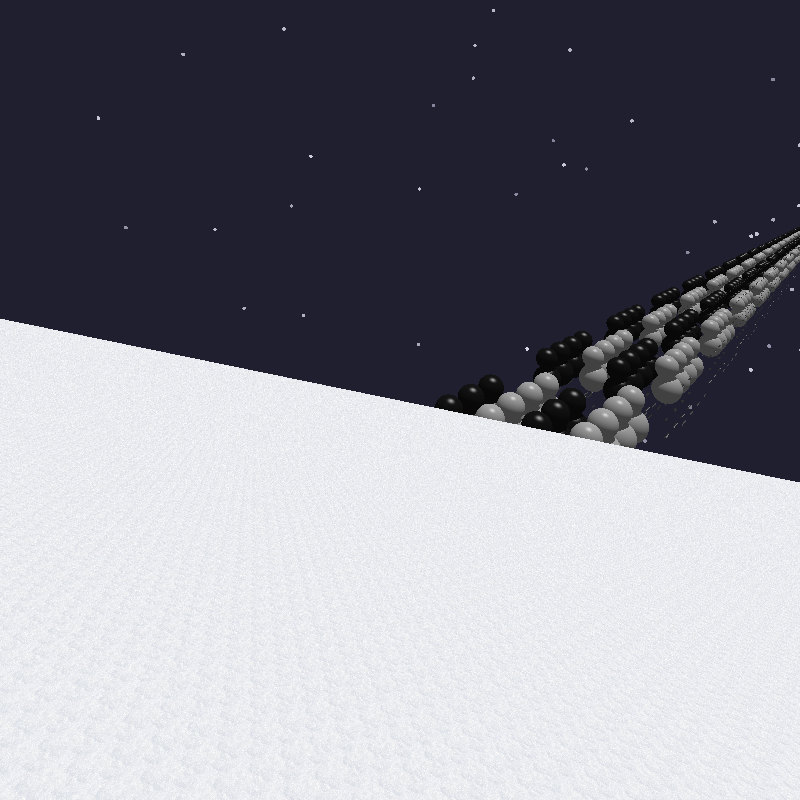
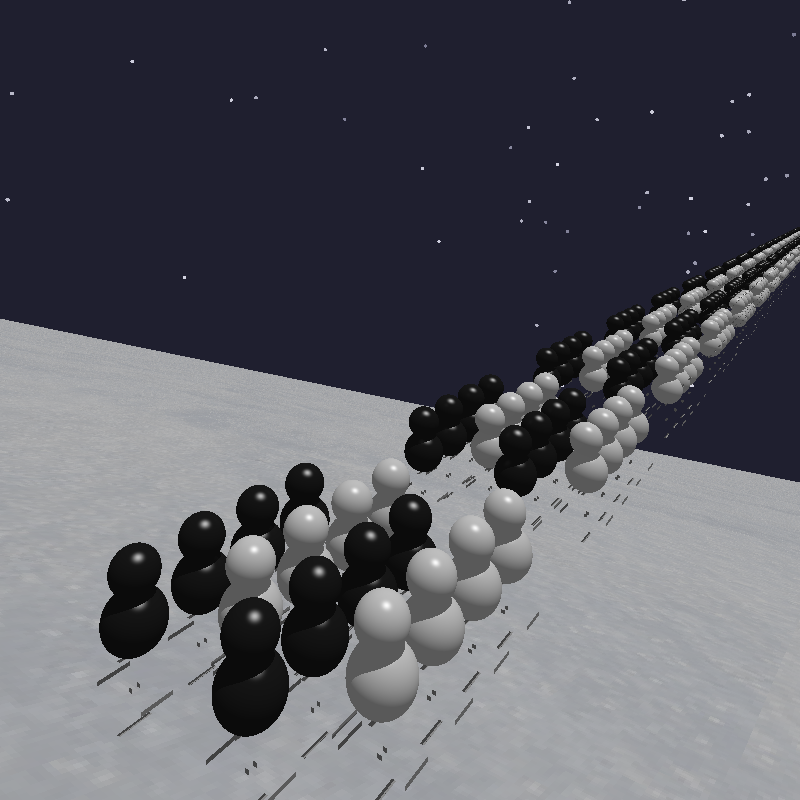
a05

diff --git a/src/cgg/A05.java b/src/cgg/A05.java
@@ -20,9 +20,6 @@ import tools.StarrySky;
 import tools.Vec2;
 import tools.Vec3;
 
-import static tools.Functions.multiplyPoint;
-
-
 
 public class A05 {
     
@@ -39,29 +36,6 @@ public class A05 {
     
         List<Shape> scene = new ArrayList<>();
 
-
-        // 1. 加载images文件夹下的snow图片
-        ImageTexture snowTexture = null;
-        Ebene slopePlane = null;
-
-        try {
-            snowTexture = new ImageTexture("images/snow.jpg");
-            System.out.println("雪纹理加载成功！");
-            // 直接创建带纹理的平面
-            slopePlane = new Ebene(snowTexture);
-            slopePlane.setTextureScale(0.1); // 纹理密度（可调整为0.2/0.3）
-        } catch (Exception e) {
-            System.err.println("Texture loading failed! Please check if the path is images/snow.jpg");
-            System.err.println("Cause of the error:" + e.getMessage());
-            // 加载失败时降级为白色平面
-            slopePlane = new Ebene(new Color(1,1,1,1)); 
-        }
-
-        // 设置平面变换（20度坡度 + Y=-80平移）
-        Mat44 slopeTrans = Mat44.rotateX(Math.toRadians(20))
-                                .multiply(Mat44.translate(0,-80, 0));
-        slopePlane.setTransform(slopeTrans);
-        scene.add(slopePlane);
 
 
 
@@ -90,7 +64,6 @@ public class A05 {
             createSnowmanGrid(4, 4,blackSnowmanGroup, whiteSnowmanGroup);
             snowmanMatrixGroup.addChild(blackSnowmanGroup);
             snowmanMatrixGroup.addChild(whiteSnowmanGroup);
-
           
 
             // 平移当前矩阵：沿Z轴前后排列（i=0最前，i越大越往后）
@@ -101,6 +74,27 @@ public class A05 {
             scene.add(snowmanMatrixGroup);  // 加入场景
         }
       
+
+         // 1. 加载images文件夹下的snow图片
+         ImageTexture snowTexture = null;
+         Ebene slopePlane = null;
+         try {
+             snowTexture = new ImageTexture("images/snow.jpg");
+             System.out.println("photo加载成功!");
+             // 直接创建带纹理的平面
+             slopePlane = new Ebene(snowTexture);
+             slopePlane.setTextureScale(0.001); // 纹理密度
+         } catch (Exception e) {
+             System.err.println("Texture loading failed! Please check if the path is images/snow.jpg");
+             System.err.println("Cause of the error:" + e.getMessage());
+             // 加载失败时降级为白色平面
+             slopePlane = new Ebene(new Color(1,1,1,1)); 
+         }
+         // 设置平面变换（20度坡度 + Y=-80平移）
+         Mat44 slopeTrans = Mat44.rotateX(Math.toRadians(20))
+                                 .multiply(Mat44.translate(0,-80, 0));
+         slopePlane.setTransform(slopeTrans);
+         scene.add(slopePlane);
         
 
     
@@ -117,8 +111,8 @@ public class A05 {
         lichtquellen.add(Lichtquelle.createRichtungslicht(lichtRichtung, lichtIntensitaet));
         
         // 5.2 添加点光源（上方）
-        Vec3 punktLichtPos = new Vec3(-5, 15, -25);  // 点光源位置（球体上方）
-        Color punktLichtIntens = new Color(0.4, 0.4, 0.4, 1); // 点光源强度
+        Vec3 punktLichtPos = new Vec3(-5, 15, -20);  // 点光源位置（球体上方）
+        Color punktLichtIntens = new Color(0.6, 0.6, 0.6, 1); // 点光源强度
         lichtquellen.add(Lichtquelle.createPunktlicht(punktLichtPos, punktLichtIntens));
 
         // 6. 光线追踪（传入光源列表）
@@ -138,21 +132,23 @@ public class A05 {
                 System.out.println("doing: "+ (y * 100 / 800 ) + "% ");
             }
             for (int x = 0; x < 800; x++){
-                Color pixelColor = rayTracer.getColor(x, y);
-
+                
                 // 关键：检测是否击中slopePlane，若是则采样纹理
                 Ray ray = camera.generateRay(new Vec2(x, y));
-                Hit hit = slopePlane.intersect(ray); // 检测是否击中地面
-                if (hit != null) {
-                    // 调用getColorAt采样纹理（核心！）
-                    pixelColor = slopePlane.getColorAt(hit.position());
-                } 
-                // 如果是背景色，替换为星空颜色
-                else if (isBackgroundColor(pixelColor, backgroundColor)) {
-                    // 获取当前像素对应的光线方向
-                    Vec3 rayDir = ray.direction();
-                    // 替换为星空颜色
-                    pixelColor = starrySky.getSkyColor(rayDir);
+
+                Color pixelColor = rayTracer.getColor(x, y);
+
+                // 只有当击中的是背景色时，才尝试采样地面纹理
+                if (isBackgroundColor(pixelColor, backgroundColor)) {
+                    // 检查是否击中地面
+                    Hit hit = slopePlane.intersect(ray);
+                    if (hit != null) {
+                        // 采样地面纹理
+                        pixelColor = slopePlane.getColorAt(hit.position());
+                    } else {
+                        // 既没击中物体也没击中地面，显示星空
+                        pixelColor = starrySky.getSkyColor(ray.direction());
+                    }
                 }
 
                 image.setPixel(x,y, pixelColor);

diff --git a/src/tools/SimpleRayTracer.java b/src/tools/SimpleRayTracer.java
@@ -55,7 +55,7 @@ public class SimpleRayTracer {
         Color localColor = shade(closestHit);
         
         // 获取物体原始颜色的透明度
-        Color rawColor = getShapeColor(closestHit.shape());
+        Color rawColor = getShapeColor(closestHit.shape(), closestHit.position());
         double alpha = rawColor.a(); // 使用你新加的 alpha()
 
         // 如果物体是半透明 (alpha < 1.0)，则继续追踪
@@ -102,7 +102,7 @@ public class SimpleRayTracer {
     /**
      * 工具方法：从Shape中获取颜色
      */
-    private Color getShapeColor(Shape shape) {
+    private Color getShapeColor(Shape shape, Vec3 hitPosition) {
         if (shape == null) {
             return Color.black(); // 空值默认黑色
         }
@@ -110,14 +110,13 @@ public class SimpleRayTracer {
         if (shape instanceof Sphere) {
             return ((Sphere) shape).getColor();
         }
-        // 适配Plane的getColor()方法（若有Plane类）
+        // 适配Plane的getColor()方法
         else if (shape instanceof Ebene) {
-            return ((Ebene) shape).getColor();
+            return ((Ebene) shape).getColorAt(hitPosition);
         }
         // Group默认灰色
         else if (shape instanceof Group) {
             // Group 本身通常没有颜色，Hit 返回的是子物体
-
              return Color.white;
         }
         // 未知形状默认白色
@@ -134,10 +133,10 @@ public class SimpleRayTracer {
     private Color shade(Hit hit) {
         Vec3 p = hit.position();       // 交点坐标
         Vec3 n = hit.normal().normalize();  // 法向量归一
-        Color objColor = getShapeColor(hit.shape());
+        Color objColor = getShapeColor(hit.shape(), p); // 物体颜色
 
         // 环境光
-        float ambientStrength = 0.05f;
+        float ambientStrength = 0.1f;
         Color ambient = objColor.multiply(ambientStrength);
 
         // 漫反射 + 镜面反射
@@ -164,7 +163,7 @@ public class SimpleRayTracer {
 
             // 3. 漫反射（兰伯特定律）
             double dotPktDiffus = Math.max(0, n.dot(l));  // 避免背面受光
-            float diffuseStrength = 0.5f;
+            float diffuseStrength = 0.6f;
             Color diffuse = objColor
                 .multiply(diffuseStrength * dotPktDiffus)
                 .multiplyWithColor(lightIntensity);
@@ -179,7 +178,7 @@ public class SimpleRayTracer {
 
             // Color ankommendeIntensitaet = licht.einfallend(p);   //入射光强
             Color spiegelnderReflexionskoeffizient = new Color(1.0,1.0,1.0,1);    //镜面反射系数
-            float spiegelungsStaerke = 0.5f;  // 镜面反射强度
+            float spiegelungsStaerke = 0.7f;  // 镜面反射强度
             double glanzExponent = 30;    //高光指数（越大越集中）
                 
 

diff --git a/src/tools/Ebene.java b/src/tools/Ebene.java
@@ -42,7 +42,6 @@ public class Ebene implements Shape {
         this(Ausdehnung.UNBEGRENZT, 0, new Color(1,1,1,1)); // 纯色设为null，优先用纹理
         this.texture = texture;
     }
-
     // 带纹理+自定义缩放因子（可选）
     public Ebene(ImageTexture texture, double textureScale) {
         this(Ausdehnung.UNBEGRENZT, 0, new Color(1,1,1,1));
@@ -133,7 +132,7 @@ public class Ebene implements Shape {
     @Override
     public Color getColor() {
         // 若有纹理，返回默认颜色（实际用getColorAt采样）；无纹理返回纯色
-        return texture != null ? new Color(1,1,1,1) : color;
+        return color;
     }
 
 
@@ -158,7 +157,7 @@ public class Ebene implements Shape {
         return color;
     }
 
-    // 新增：设置纹理缩放因子（可选）
+    // 设置纹理缩放因子（可选）
     public void setTextureScale(double scale) {
         this.textureScale = scale;
     }
